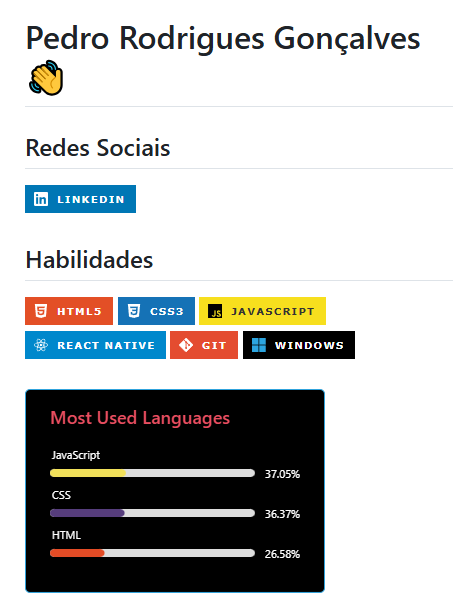
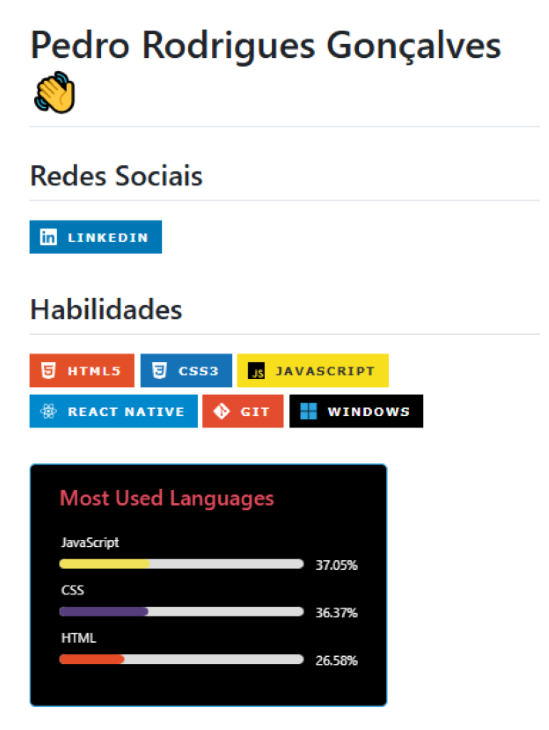
mudancas de nomes

diff --git a/index.html b/index.html
@@ -4,7 +4,7 @@
     <meta charset="UTF-8">
     <meta name="viewport" content="width=device-width, initial-scale=1.0">
     <title>Jogo</title>
-    <link rel="stylesheet" type="text/css" href="estilo.css"/>   
+    <link rel="stylesheet" type="text/css" href="style.css"/>   
 </head>
 <body>
     <table>
@@ -41,7 +41,7 @@
             </td>
             <td>
                 <div class="author">
-                    <iframe src="perfil.png" width="400px" height="630px"></iframe>
+                    <iframe src="perfil.png" width="520px" height="730px"></iframe>
                 </div>
             </td>
         </tr>

diff --git a/style.css b/style.css
@@ -106,7 +106,7 @@ button:hover{
 }
 .author{
     font-family:'Courier New', Courier, monospace;
-    font-size: 12px;
+    font-size: 25px;
     color: white;
     display: flex;
     justify-content: right;
@@ -115,5 +115,5 @@ button:hover{
 }
 .author::before{
     display: inline-block;
-    content:"by Pedro Rodrigues Gonçalves"
+    content:" Pedro Rodrigues Gonçalves"
 }
